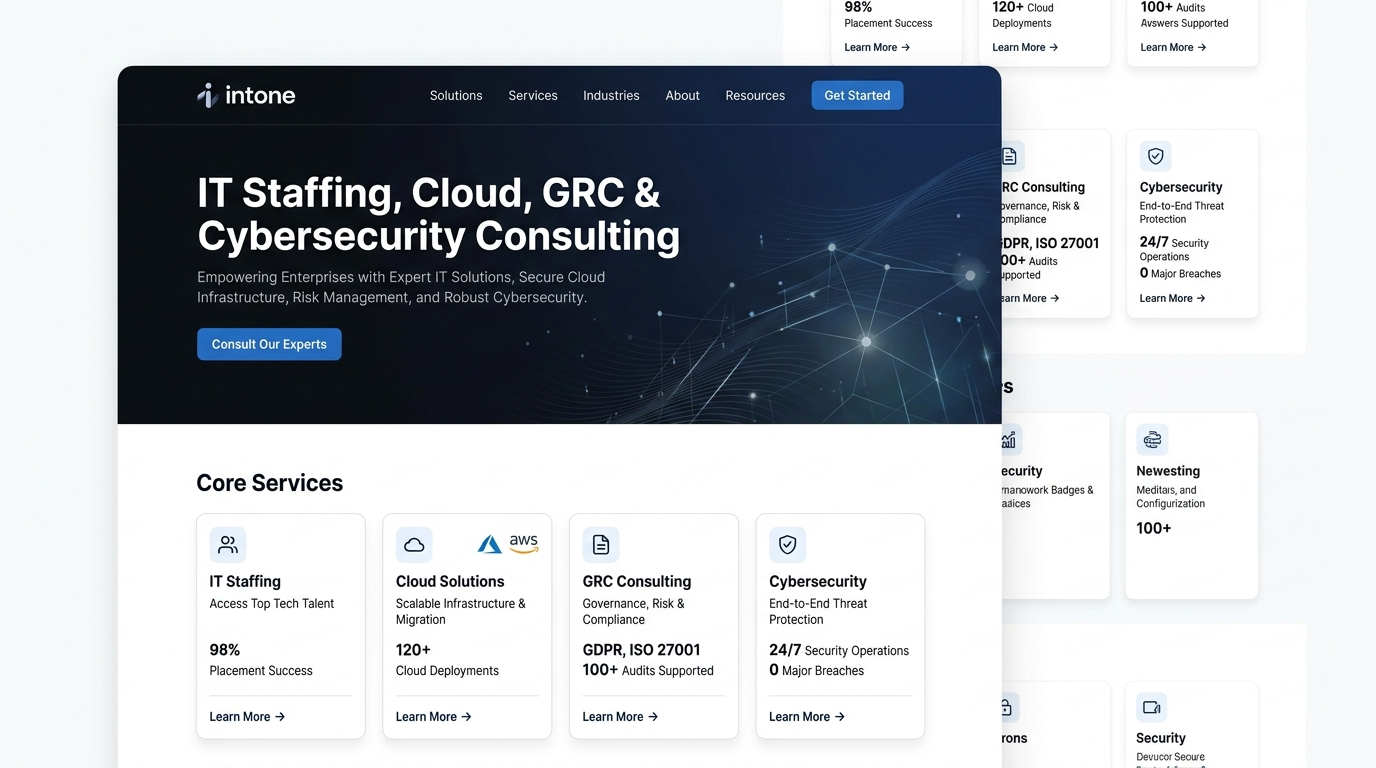
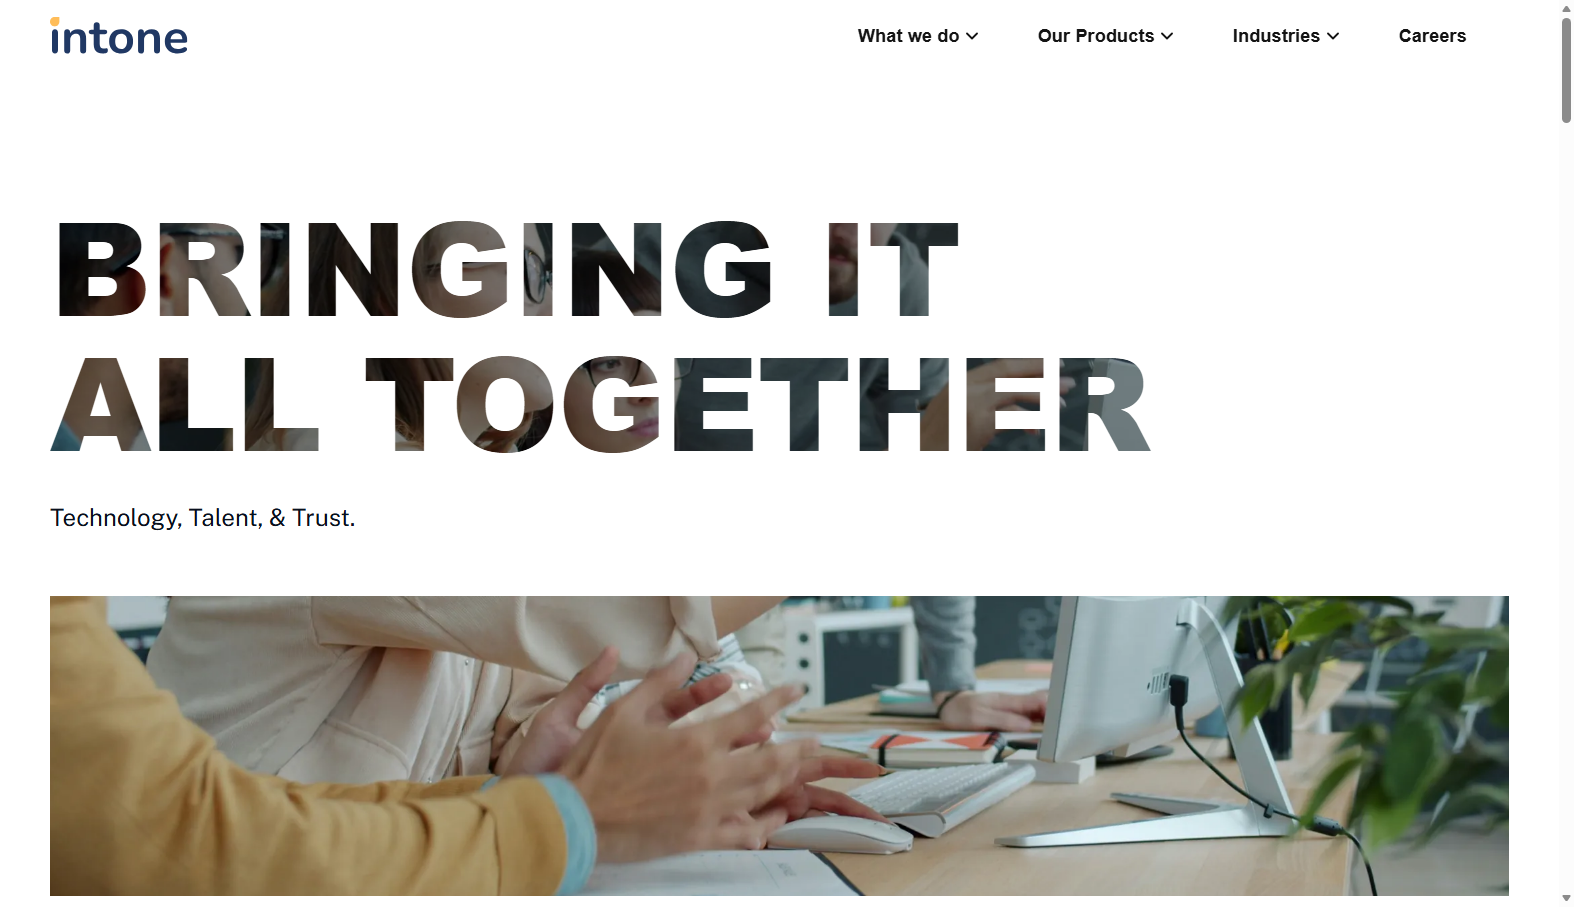
Fix light theme form styles, shorten pricing CTA labels, and update Intone project with live website image

diff --git a/src/components/sections/Contact.tsx b/src/components/sections/Contact.tsx
@@ -233,29 +233,29 @@ export function Contact() {
                 <div className="space-y-2">
                   <div className="flex items-center justify-between">
                     <div className="flex items-center gap-1.5">
-                      <label className="text-[11px] font-black text-fg/70 uppercase tracking-[0.15em]">
+                      <label className="text-[11px] font-black text-neutral-700 dark:text-neutral-300 uppercase tracking-[0.15em]">
                         Authenticate to Connect
                       </label>
                       <div className="relative group/tooltip inline-flex items-center">
                         <button 
                           type="button"
                           aria-label="Authentication Info"
-                          className="text-muted-fg/60 hover:text-primary transition-colors cursor-help p-0.5"
+                          className="text-neutral-400 hover:text-primary transition-colors cursor-help p-0.5"
                         >
                           <Info className="w-3.5 h-3.5" />
                         </button>
-                        <div className="absolute left-0 bottom-full mb-2 w-64 p-3 rounded-2xl bg-card border border-border shadow-2xl text-xs text-muted-fg font-normal leading-relaxed opacity-0 invisible group-hover/tooltip:opacity-100 group-hover/tooltip:visible transition-all duration-300 pointer-events-none z-50 backdrop-blur-xl">
-                          <p className="font-bold text-fg mb-1 flex items-center gap-1.5">
+                        <div className="absolute left-0 bottom-full mb-2 w-64 p-3 rounded-2xl bg-white dark:bg-neutral-900 border border-neutral-200 dark:border-neutral-800 shadow-2xl text-xs text-neutral-600 dark:text-neutral-400 font-normal leading-relaxed opacity-0 invisible group-hover/tooltip:opacity-100 group-hover/tooltip:visible transition-all duration-300 pointer-events-none z-50 backdrop-blur-xl">
+                          <p className="font-bold text-neutral-900 dark:text-neutral-100 mb-1 flex items-center gap-1.5">
                             <ShieldCheck className="w-3.5 h-3.5 text-primary" />
                             <span>Spam Protection</span>
                           </p>
                           To prevent automated bot scraping and protect direct phone/email channels, quick Google authentication is required before sending.
-                          <div className="absolute left-3 top-full -mt-1 border-4 border-transparent border-t-card" />
+                          <div className="absolute left-3 top-full -mt-1 border-4 border-transparent border-t-white dark:border-t-neutral-900" />
                         </div>
                       </div>
                     </div>
                     {!isVerified && (
-                      <span className="text-[9px] font-black text-amber-500 bg-amber-500/10 px-2 py-0.5 rounded-full uppercase tracking-wider">
+                      <span className="text-[9px] font-black text-amber-600 dark:text-amber-400 bg-amber-500/10 px-2 py-0.5 rounded-full uppercase tracking-wider">
                         Required
                       </span>
                     )}
@@ -264,7 +264,7 @@ export function Contact() {
                   {!isVerified ? (
                     <Button 
                       type="button" 
-                      className="w-full py-4 rounded-2xl bg-card dark:bg-neutral-900 text-fg hover:bg-muted/50 dark:hover:bg-neutral-800 border border-border/80 dark:border-neutral-700 shadow-[2px_3px_0px_rgba(0,0,0,0.06),0_2px_4px_rgba(0,0,0,0.04)] dark:shadow-[2px_3px_0px_rgba(0,0,0,0.5),0_2px_8px_rgba(0,0,0,0.3)] hover:border-primary/40 flex items-center justify-center gap-3 font-bold text-sm transition-all active:translate-x-[1px] active:translate-y-[1px]"
+                      className="w-full py-4 rounded-2xl bg-white dark:bg-neutral-900 text-neutral-900 dark:text-neutral-100 hover:bg-neutral-50 dark:hover:bg-neutral-800 border border-neutral-300 dark:border-neutral-700 shadow-[2px_3px_0px_rgba(0,0,0,0.06),0_2px_4px_rgba(0,0,0,0.04)] dark:shadow-[2px_3px_0px_rgba(0,0,0,0.5),0_2px_8px_rgba(0,0,0,0.3)] hover:border-primary/40 flex items-center justify-center gap-3 font-bold text-sm transition-all active:translate-x-[1px] active:translate-y-[1px]"
                       onClick={() => login()}
                       disabled={status === 'submitting'}
                     >
@@ -281,7 +281,7 @@ export function Contact() {
 
                 {/* Name Field */}
                 <div className="space-y-2">
-                  <label htmlFor="name" className="text-[11px] font-black text-fg/70 ml-1 uppercase tracking-[0.15em]">
+                  <label htmlFor="name" className="text-[11px] font-black text-neutral-700 dark:text-neutral-300 ml-1 uppercase tracking-[0.15em]">
                     Your Name
                   </label>
                   <input
@@ -290,7 +290,7 @@ export function Contact() {
                     value={formData.name}
                     onChange={handleSanitizedChange}
                     readOnly={isVerified}
-                    className={`w-full px-4 py-3.5 rounded-2xl border border-border/80 dark:border-neutral-700 bg-card dark:bg-neutral-900 text-fg placeholder:text-muted-fg/40 text-sm shadow-[2px_3px_0px_rgba(0,0,0,0.06),0_2px_4px_rgba(0,0,0,0.04)] dark:shadow-[2px_3px_0px_rgba(0,0,0,0.5),0_2px_8px_rgba(0,0,0,0.3)] hover:border-primary/40 focus:outline-none focus:border-primary focus:ring-2 focus:ring-primary/20 focus:shadow-[1px_2px_0px_rgba(0,0,0,0.1)] transition-all duration-200 ${isVerified ? 'opacity-85 bg-muted/30 cursor-not-allowed' : ''}`}
+                    className={`w-full px-4 py-3.5 rounded-2xl border border-neutral-300 dark:border-neutral-700 bg-white dark:bg-neutral-900 text-neutral-900 dark:text-neutral-100 placeholder:text-neutral-400 dark:placeholder:text-neutral-500 text-sm shadow-[2px_3px_0px_rgba(0,0,0,0.06),0_2px_4px_rgba(0,0,0,0.04)] dark:shadow-[2px_3px_0px_rgba(0,0,0,0.5),0_2px_8px_rgba(0,0,0,0.3)] hover:border-primary/40 focus:outline-none focus:border-primary focus:ring-2 focus:ring-primary/20 focus:shadow-[1px_2px_0px_rgba(0,0,0,0.1)] transition-all duration-200 ${isVerified ? 'opacity-85 bg-neutral-100 dark:bg-neutral-800/60 cursor-not-allowed' : ''}`}
                     placeholder="Full Name"
                     required
                   />
@@ -298,7 +298,7 @@ export function Contact() {
                 
                 {/* Email Field */}
                 <div className="space-y-2">
-                  <label htmlFor="email" className="text-[11px] font-black text-fg/70 ml-1 uppercase tracking-[0.15em]">
+                  <label htmlFor="email" className="text-[11px] font-black text-neutral-700 dark:text-neutral-300 ml-1 uppercase tracking-[0.15em]">
                     Email Address
                   </label>
                   <input
@@ -307,7 +307,7 @@ export function Contact() {
                     value={formData.email}
                     onChange={handleSanitizedChange}
                     readOnly={isVerified}
-                    className={`w-full px-4 py-3.5 rounded-2xl border border-border/80 dark:border-neutral-700 bg-card dark:bg-neutral-900 text-fg placeholder:text-muted-fg/40 text-sm shadow-[2px_3px_0px_rgba(0,0,0,0.06),0_2px_4px_rgba(0,0,0,0.04)] dark:shadow-[2px_3px_0px_rgba(0,0,0,0.5),0_2px_8px_rgba(0,0,0,0.3)] hover:border-primary/40 focus:outline-none focus:border-primary focus:ring-2 focus:ring-primary/20 focus:shadow-[1px_2px_0px_rgba(0,0,0,0.1)] transition-all duration-200 ${isVerified ? 'opacity-85 bg-muted/30 cursor-not-allowed' : ''}`}
+                    className={`w-full px-4 py-3.5 rounded-2xl border border-neutral-300 dark:border-neutral-700 bg-white dark:bg-neutral-900 text-neutral-900 dark:text-neutral-100 placeholder:text-neutral-400 dark:placeholder:text-neutral-500 text-sm shadow-[2px_3px_0px_rgba(0,0,0,0.06),0_2px_4px_rgba(0,0,0,0.04)] dark:shadow-[2px_3px_0px_rgba(0,0,0,0.5),0_2px_8px_rgba(0,0,0,0.3)] hover:border-primary/40 focus:outline-none focus:border-primary focus:ring-2 focus:ring-primary/20 focus:shadow-[1px_2px_0px_rgba(0,0,0,0.1)] transition-all duration-200 ${isVerified ? 'opacity-85 bg-neutral-100 dark:bg-neutral-800/60 cursor-not-allowed' : ''}`}
                     placeholder="email@example.com"
                     required
                   />
@@ -316,7 +316,7 @@ export function Contact() {
 
               {/* Turnstile Human Verification in Left Column Bottom */}
               <div className="mt-auto pt-4">
-                <div className="flex flex-col items-center justify-center min-h-[66px] p-2 rounded-2xl border border-border/80 dark:border-neutral-700/80 bg-card/60 dark:bg-neutral-900/60 shadow-[2px_3px_0px_rgba(0,0,0,0.05),0_2px_4px_rgba(0,0,0,0.03)] dark:shadow-[2px_3px_0px_rgba(0,0,0,0.4)]">
+                <div className="flex flex-col items-center justify-center min-h-[66px] p-2 rounded-2xl border border-neutral-300 dark:border-neutral-700 bg-white dark:bg-neutral-900 shadow-[2px_3px_0px_rgba(0,0,0,0.05),0_2px_4px_rgba(0,0,0,0.03)] dark:shadow-[2px_3px_0px_rgba(0,0,0,0.4)]">
                   {!turnstileError ? (
                     <Turnstile 
                       siteKey={import.meta.env.VITE_TURNSTILE_SITE_KEY || "1x00000000000000000000AA"} 
@@ -348,7 +348,7 @@ export function Contact() {
                 {/* Selectors Grid */}
                 <div className="grid grid-cols-1 sm:grid-cols-3 gap-3">
                   <div className="space-y-2">
-                    <label htmlFor="tech" className="text-[11px] font-black text-fg/70 ml-1 uppercase tracking-[0.15em]">
+                    <label htmlFor="tech" className="text-[11px] font-black text-neutral-700 dark:text-neutral-300 ml-1 uppercase tracking-[0.15em]">
                       Tech Stack
                     </label>
                     <div className="relative">
@@ -356,20 +356,20 @@ export function Contact() {
                         id="tech"
                         value={formData.tech}
                         onChange={handleSanitizedChange}
-                        className="w-full px-3.5 py-3 rounded-2xl border border-border/80 dark:border-neutral-700 bg-card dark:bg-neutral-900 text-fg appearance-none font-bold cursor-pointer text-xs shadow-[2px_3px_0px_rgba(0,0,0,0.06),0_2px_4px_rgba(0,0,0,0.04)] dark:shadow-[2px_3px_0px_rgba(0,0,0,0.5),0_2px_8px_rgba(0,0,0,0.3)] hover:border-primary/40 focus:outline-none focus:border-primary focus:ring-2 focus:ring-primary/20 transition-all duration-200"
+                        className="w-full px-3.5 py-3 rounded-2xl border border-neutral-300 dark:border-neutral-700 bg-white dark:bg-neutral-900 text-neutral-900 dark:text-neutral-100 appearance-none font-bold cursor-pointer text-xs shadow-[2px_3px_0px_rgba(0,0,0,0.06),0_2px_4px_rgba(0,0,0,0.04)] dark:shadow-[2px_3px_0px_rgba(0,0,0,0.5),0_2px_8px_rgba(0,0,0,0.3)] hover:border-primary/40 focus:outline-none focus:border-primary focus:ring-2 focus:ring-primary/20 transition-all duration-200"
                       >
-                        <option value="wordpress">WordPress / CMS</option>
-                        <option value="nextjs">Next.js / Pro</option>
-                        <option value="vite">Vite + React</option>
+                        <option value="wordpress" className="bg-white text-neutral-900 dark:bg-neutral-900 dark:text-neutral-100">WordPress / CMS</option>
+                        <option value="nextjs" className="bg-white text-neutral-900 dark:bg-neutral-900 dark:text-neutral-100">Next.js / Pro</option>
+                        <option value="vite" className="bg-white text-neutral-900 dark:bg-neutral-900 dark:text-neutral-100">Vite + React</option>
                       </select>
-                      <div className="absolute right-3.5 top-1/2 -translate-y-1/2 pointer-events-none text-muted-fg">
+                      <div className="absolute right-3.5 top-1/2 -translate-y-1/2 pointer-events-none text-neutral-500">
                         <Settings className="w-3.5 h-3.5" />
                       </div>
                     </div>
                   </div>
                   
                   <div className="space-y-2">
-                    <label htmlFor="tier" className="text-[11px] font-black text-fg/70 ml-1 uppercase tracking-[0.15em]">
+                    <label htmlFor="tier" className="text-[11px] font-black text-neutral-700 dark:text-neutral-300 ml-1 uppercase tracking-[0.15em]">
                       Plan Tier
                     </label>
                     <div className="relative">
@@ -377,36 +377,36 @@ export function Contact() {
                         id="tier"
                         value={formData.tier}
                         onChange={handleSanitizedChange}
-                        className="w-full px-3.5 py-3 rounded-2xl border border-border/80 dark:border-neutral-700 bg-card dark:bg-neutral-900 text-fg appearance-none font-bold cursor-pointer text-xs shadow-[2px_3px_0px_rgba(0,0,0,0.06),0_2px_4px_rgba(0,0,0,0.04)] dark:shadow-[2px_3px_0px_rgba(0,0,0,0.5),0_2px_8px_rgba(0,0,0,0.3)] hover:border-primary/40 focus:outline-none focus:border-primary focus:ring-2 focus:ring-primary/20 transition-all duration-200"
+                        className="w-full px-3.5 py-3 rounded-2xl border border-neutral-300 dark:border-neutral-700 bg-white dark:bg-neutral-900 text-neutral-900 dark:text-neutral-100 appearance-none font-bold cursor-pointer text-xs shadow-[2px_3px_0px_rgba(0,0,0,0.06),0_2px_4px_rgba(0,0,0,0.04)] dark:shadow-[2px_3px_0px_rgba(0,0,0,0.5),0_2px_8px_rgba(0,0,0,0.3)] hover:border-primary/40 focus:outline-none focus:border-primary focus:ring-2 focus:ring-primary/20 transition-all duration-200"
                       >
                         {formData.tech === 'vite' && (
                           <>
-                            <option value="Basic">Basic (₹50k)</option>
-                            <option value="Advanced">Advanced (₹75k)</option>
+                            <option value="Basic" className="bg-white text-neutral-900 dark:bg-neutral-900 dark:text-neutral-100">Basic (₹50k)</option>
+                            <option value="Advanced" className="bg-white text-neutral-900 dark:bg-neutral-900 dark:text-neutral-100">Advanced (₹75k)</option>
                           </>
                         )}
                         {formData.tech === 'nextjs' && (
                           <>
-                            <option value="Business">Business (₹85k)</option>
-                            <option value="Enterprise">Enterprise (₹1.5L)</option>
+                            <option value="Business" className="bg-white text-neutral-900 dark:bg-neutral-900 dark:text-neutral-100">Business (₹85k)</option>
+                            <option value="Enterprise" className="bg-white text-neutral-900 dark:bg-neutral-900 dark:text-neutral-100">Enterprise (₹1.5L)</option>
                           </>
                         )}
                         {formData.tech === 'wordpress' && (
                           <>
-                            <option value="Basic">Basic (₹50k)</option>
-                            <option value="Corporate & Pro">Corporate & Pro (₹75k)</option>
-                            <option value="E-Commerce & Scale">E-Commerce (₹1.2L)</option>
+                            <option value="Basic" className="bg-white text-neutral-900 dark:bg-neutral-900 dark:text-neutral-100">Basic (₹50k)</option>
+                            <option value="Corporate & Pro" className="bg-white text-neutral-900 dark:bg-neutral-900 dark:text-neutral-100">Corporate & Pro (₹75k)</option>
+                            <option value="E-Commerce & Scale" className="bg-white text-neutral-900 dark:bg-neutral-900 dark:text-neutral-100">E-Commerce (₹1.2L)</option>
                           </>
                         )}
                       </select>
-                      <div className="absolute right-3.5 top-1/2 -translate-y-1/2 pointer-events-none text-muted-fg">
+                      <div className="absolute right-3.5 top-1/2 -translate-y-1/2 pointer-events-none text-neutral-500">
                         <Layout className="w-3.5 h-3.5" />
                       </div>
                     </div>
                   </div>
 
                   <div className="space-y-2">
-                    <label htmlFor="cycle" className="text-[11px] font-black text-fg/70 ml-1 uppercase tracking-[0.15em]">
+                    <label htmlFor="cycle" className="text-[11px] font-black text-neutral-700 dark:text-neutral-300 ml-1 uppercase tracking-[0.15em]">
                       Maintenance
                     </label>
                     <div className="relative">
@@ -414,14 +414,14 @@ export function Contact() {
                         id="cycle"
                         value={formData.cycle}
                         onChange={handleSanitizedChange}
-                        className="w-full px-3.5 py-3 rounded-2xl border border-border/80 dark:border-neutral-700 bg-card dark:bg-neutral-900 text-fg appearance-none font-bold cursor-pointer text-xs shadow-[2px_3px_0px_rgba(0,0,0,0.06),0_2px_4px_rgba(0,0,0,0.04)] dark:shadow-[2px_3px_0px_rgba(0,0,0,0.5),0_2px_8px_rgba(0,0,0,0.3)] hover:border-primary/40 focus:outline-none focus:border-primary focus:ring-2 focus:ring-primary/20 transition-all duration-200"
+                        className="w-full px-3.5 py-3 rounded-2xl border border-neutral-300 dark:border-neutral-700 bg-white dark:bg-neutral-900 text-neutral-900 dark:text-neutral-100 appearance-none font-bold cursor-pointer text-xs shadow-[2px_3px_0px_rgba(0,0,0,0.06),0_2px_4px_rgba(0,0,0,0.04)] dark:shadow-[2px_3px_0px_rgba(0,0,0,0.5),0_2px_8px_rgba(0,0,0,0.3)] hover:border-primary/40 focus:outline-none focus:border-primary focus:ring-2 focus:ring-primary/20 transition-all duration-200"
                       >
-                        <option value="monthly">Monthly</option>
-                        <option value="quarterly">Quarterly (~7% off)</option>
-                        <option value="halfyearly">Half-Yearly (~13% off)</option>
-                        <option value="yearly">Yearly (20% off)</option>
+                        <option value="monthly" className="bg-white text-neutral-900 dark:bg-neutral-900 dark:text-neutral-100">Monthly</option>
+                        <option value="quarterly" className="bg-white text-neutral-900 dark:bg-neutral-900 dark:text-neutral-100">Quarterly (~7% off)</option>
+                        <option value="halfyearly" className="bg-white text-neutral-900 dark:bg-neutral-900 dark:text-neutral-100">Half-Yearly (~13% off)</option>
+                        <option value="yearly" className="bg-white text-neutral-900 dark:bg-neutral-900 dark:text-neutral-100">Yearly (20% off)</option>
                       </select>
-                      <div className="absolute right-3.5 top-1/2 -translate-y-1/2 pointer-events-none text-muted-fg">
+                      <div className="absolute right-3.5 top-1/2 -translate-y-1/2 pointer-events-none text-neutral-500">
                         <ShieldCheck className="w-3.5 h-3.5" />
                       </div>
                     </div>
@@ -430,7 +430,7 @@ export function Contact() {
                 
                 {/* Message Field */}
                 <div className="space-y-2 flex-1 flex flex-col">
-                  <label htmlFor="message" className="text-[11px] font-black text-fg/70 ml-1 uppercase tracking-[0.15em]">
+                  <label htmlFor="message" className="text-[11px] font-black text-neutral-700 dark:text-neutral-300 ml-1 uppercase tracking-[0.15em]">
                     Your Message
                   </label>
                   <textarea
@@ -438,7 +438,7 @@ export function Contact() {
                     value={formData.message}
                     onChange={handleSanitizedChange}
                     rows={5}
-                    className="w-full flex-1 min-h-[140px] px-4 py-3.5 rounded-2xl border border-border/80 dark:border-neutral-700 bg-card dark:bg-neutral-900 text-fg placeholder:text-muted-fg/40 resize-none text-sm shadow-[2px_3px_0px_rgba(0,0,0,0.06),0_2px_4px_rgba(0,0,0,0.04)] dark:shadow-[2px_3px_0px_rgba(0,0,0,0.5),0_2px_8px_rgba(0,0,0,0.3)] hover:border-primary/40 focus:outline-none focus:border-primary focus:ring-2 focus:ring-primary/20 transition-all duration-200"
+                    className="w-full flex-1 min-h-[140px] px-4 py-3.5 rounded-2xl border border-neutral-300 dark:border-neutral-700 bg-white dark:bg-neutral-900 text-neutral-900 dark:text-neutral-100 placeholder:text-neutral-400 dark:placeholder:text-neutral-500 resize-none text-sm shadow-[2px_3px_0px_rgba(0,0,0,0.06),0_2px_4px_rgba(0,0,0,0.04)] dark:shadow-[2px_3px_0px_rgba(0,0,0,0.5),0_2px_8px_rgba(0,0,0,0.3)] hover:border-primary/40 focus:outline-none focus:border-primary focus:ring-2 focus:ring-primary/20 transition-all duration-200"
                     placeholder="Tell me about your project requirements, scope, and timeline..."
                     required
                   />

diff --git a/src/components/sections/Pricing.tsx b/src/components/sections/Pricing.tsx
@@ -486,7 +486,11 @@ export function Pricing() {
                       size="lg"
                       onClick={() => setPlan(activeTech, plan.name, activeCycle)}
                     >
-                      Choose {plan.name} Plan
+                      {plan.name === "Corporate & Pro" 
+                        ? "Choose Pro Plan" 
+                        : plan.name === "E-Commerce & Scale" 
+                        ? "Choose E-Commerce Plan" 
+                        : `Choose ${plan.name} Plan`}
                     </Button>
                   </div>
                 </motion.div>

diff --git a/src/index.css b/src/index.css
@@ -1,6 +1,8 @@
 @import url("https://fonts.googleapis.com/css2?family=Inter:wght@400;500;600;700;800&family=JetBrains+Mono:wght@400;500&display=swap");
 @import "tailwindcss";
 
+@custom-variant dark (&:where(.dark, .dark *));
+
 @theme {
   --font-sans: "Inter", ui-sans-serif, system-ui, sans-serif;
   --font-mono: "JetBrains Mono", ui-monospace, SFMono-Regular, monospace;
